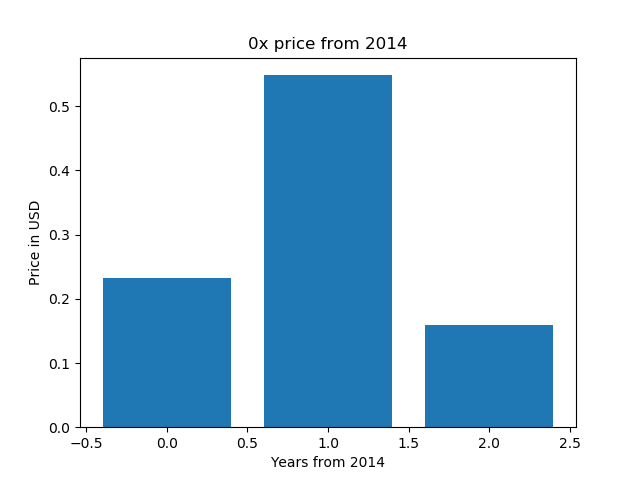
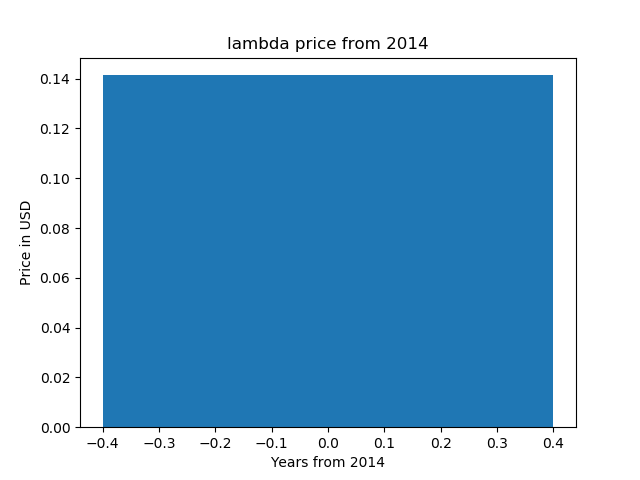
first commit

diff --git a/example.py b/example.py
@@ -10,7 +10,7 @@ from time import gmtime, strftime
 import matplotlib.pyplot as plt
 
 enddate = strftime("%Y%m%d", gmtime())
-r  = requests.get("https://coinmarketcap.com/currencies/0x/historical-data/?start=20140101&end={0}".format(enddate))
+r  = requests.get("https://coinmarketcap.com/currencies/lambda/historical-data/?start=20140101&end={0}".format(enddate))
 data = r.text
 
 soup = BeautifulSoup(data, "html.parser")
@@ -44,7 +44,7 @@ print(x)
 
 x = list(range(0, len(prices)))
 
-plt.title('0x price from 2014')
+plt.title('lambda price from 2014')
 plt.ylabel('Price in USD')
 plt.xlabel('Years from 2014')
 plt.bar(x, prices)

diff --git a/README.md b/README.md
@@ -1,6 +1,6 @@
-# 0x price chart 
+# lambda price chart 
 
-0x price chart (matplotlib, python)
+lambda price chart (matplotlib, python)
 
 https://pythonprogramminglanguage.com
 
